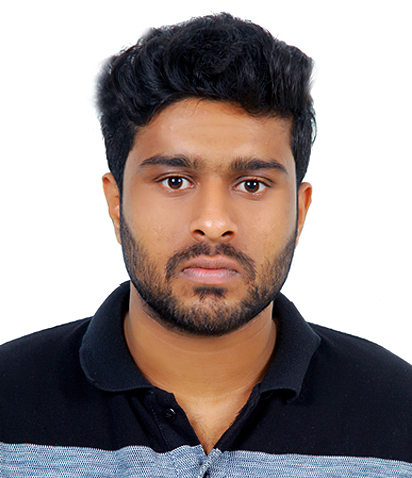
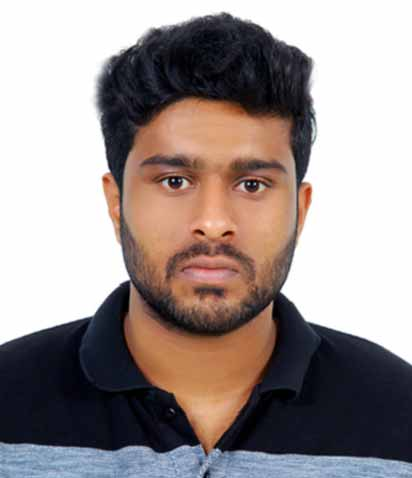
Execom updated

diff --git a/index.html b/index.html
@@ -421,38 +421,38 @@
 
           <div class="col-lg-4 col-md-6 portfolio-item filter-app">
             <div class="portfolio-wrap">
-              <img src="assets/img/Events/event_7.jpeg" class="img-fluid" alt="">
+              <img src="assets/img/Events/event_7.jpg" class="img-fluid" alt="">
               
             </div>
           </div>
 
           <div class="col-lg-4 col-md-6 portfolio-item filter-web">
             <div class="portfolio-wrap">
-              <img src="assets/img/Events/event_8.jpeg" class="img-fluid" alt="">
+              <img src="assets/img/Events/event_8.jpg" class="img-fluid" alt="">
             </div>
           </div>
 
           <div class="col-lg-4 col-md-6 portfolio-item filter-app">
             <div class="portfolio-wrap">
-              <img src="assets/img/Events/event_9.jpeg" class="img-fluid" alt="">
+              <img src="assets/img/Events/event_9.jpg" class="img-fluid" alt="">
             </div>
           </div>
 
           <div class="col-lg-4 col-md-6 portfolio-item filter-card">
             <div class="portfolio-wrap">
-              <img src="assets/img/Events/event_10.jpeg" class="img-fluid" alt="">
+              <img src="assets/img/Events/event_10.jpg" class="img-fluid" alt="">
             </div>
           </div>
 
           <div class="col-lg-4 col-md-6 portfolio-item filter-web">
             <div class="portfolio-wrap">
-              <img src="assets/img/Events/event_12.jpeg" class="img-fluid" alt="">
+              <img src="assets/img/Events/event_12.jpg" class="img-fluid" alt="">
             </div>
           </div>
 
           <div class="col-lg-4 col-md-6 portfolio-item filter-app">
             <div class="portfolio-wrap">
-              <img src="assets/img/Events/event_4.jpeg" class="img-fluid" alt="">
+              <img src="assets/img/Events/event_4.jpg" class="img-fluid" alt="">
             </div>
           </div> 
     </section><!-- End Portfolio Section -->
@@ -482,7 +482,7 @@
             <div class="swiper-slide">
               <div class="testimonial-wrap">
                 <div class="testimonial-item">
-                  <img src="assets/img/execom/Vasant Joseph - ieeesb cusat.png"  class="mx-auto d-block" style="height: 15em; width: 15em;" alt=""> 
+                  <img src="assets/img/execom/Vasant-Joseph---ieeesb-cusat.jpg"  class="mx-auto d-block" style="height: 15em; width: 15em;" alt=""> 
                  <h3 class="text-center">Vasant Joseph</h3> 
 
                   <h4 class="text-center">Vice-Chairman & Treasurer</h4>
